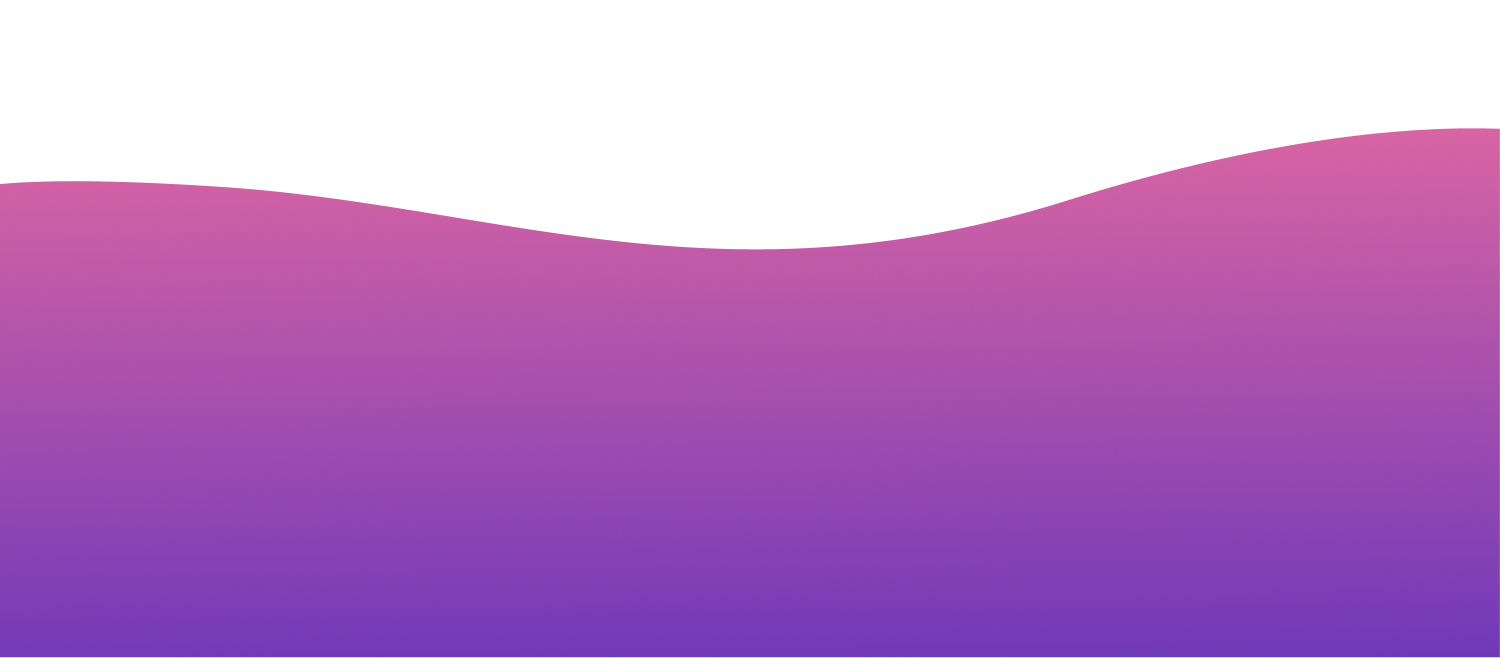
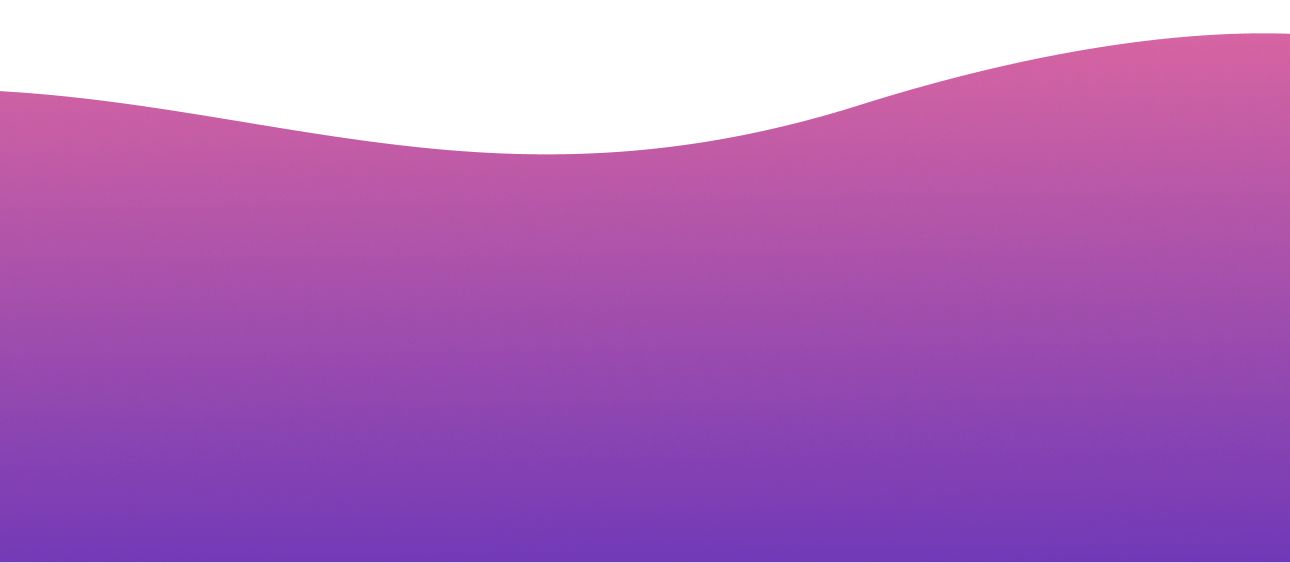
Mobile

Changed region(s): [[0.0, 0.0604, 1.0, 0.3925], [0.0, 0.9964, 1.0, 1.0]]

diff --git a/src/Mobile/Mobile_Style.js b/src/Mobile/Mobile_Style.js
@@ -1,0 +1,56 @@
+import styled from "styled-components";
+import bg5 from "../assets/imgs/bg5.png";
+
+export const Wrapper = styled.div`
+  display: flex;
+  flex-direction: column;
+  width: 1920px;
+  height: 1080px;
+  background-image: url(${bg5});
+  background-repeat: no-repeat;
+  background-size: contain;
+  padding-bottom: 100px;
+`;
+
+export const Img = styled.div`
+  display: flex;
+  justify-content: center;
+  align-items: center;
+  padding-top: 300px;
+  img {
+    padding: 0px 30px;
+  }
+`;
+
+export const WrapSub = styled.div`
+  display: flex;
+  flex-direction: column;
+  align-items: center;
+  justify-content: center;
+`;
+
+export const Text = styled.div`
+  width: 400px;
+  background: transparent;
+  font-family: Poppins;
+  font-style: normal;
+  font-weight: bold;
+  font-size: 50px;
+  line-height: 65px;
+  color: rgba(253, 116, 155, 1);
+  border-bottom: 4px solid transparent;
+  text-decoration: none;
+  :hover {
+    border-bottom: 4px solid #fd749b;
+  }
+`;
+
+export const Title = styled.div`
+  font-family: Poppins;
+  font-style: normal;
+  font-weight: normal;
+  font-size: 16px;
+  line-height: 40px;
+  text-align: center;
+  color: #333333;
+`;

diff --git a/src/Mobile/Mobile.jsx b/src/Mobile/Mobile.jsx
@@ -1,0 +1,21 @@
+import React from "react";
+import { Wrapper, Img, WrapSub, Text, Title } from "./Mobile_Style";
+import iPhone from "../assets/imgs/iPhone.png";
+import iPhone2 from "../assets/imgs/iPhone X.png";
+
+const Mobile = () => {
+  return (
+    <Wrapper>
+      <Img>
+        <img src={iPhone2} alt="" />
+        <img src={iPhone} alt="" />
+      </Img>
+      <WrapSub>
+        <Text>Subscribe our newsletter</Text>
+        <Title></Title>
+      </WrapSub>
+    </Wrapper>
+  );
+};
+
+export default Mobile;

diff --git a/src/Root.jsx b/src/Root.jsx
@@ -8,6 +8,7 @@ import Experiance from "./Experiance/Experiance";
 import Trade from "./Trade/Trade";
 import Satisfy from "./Satisfy/Satisfy";
 import Download from "./Download/Download";
+import Mobile from "./Mobile/Mobile";
 
 const Root = () => {
   return (
@@ -20,6 +21,7 @@ const Root = () => {
       <Trade />
       <Satisfy />
       <Download />
+      <Mobile />
     </Container>
   );
 };
